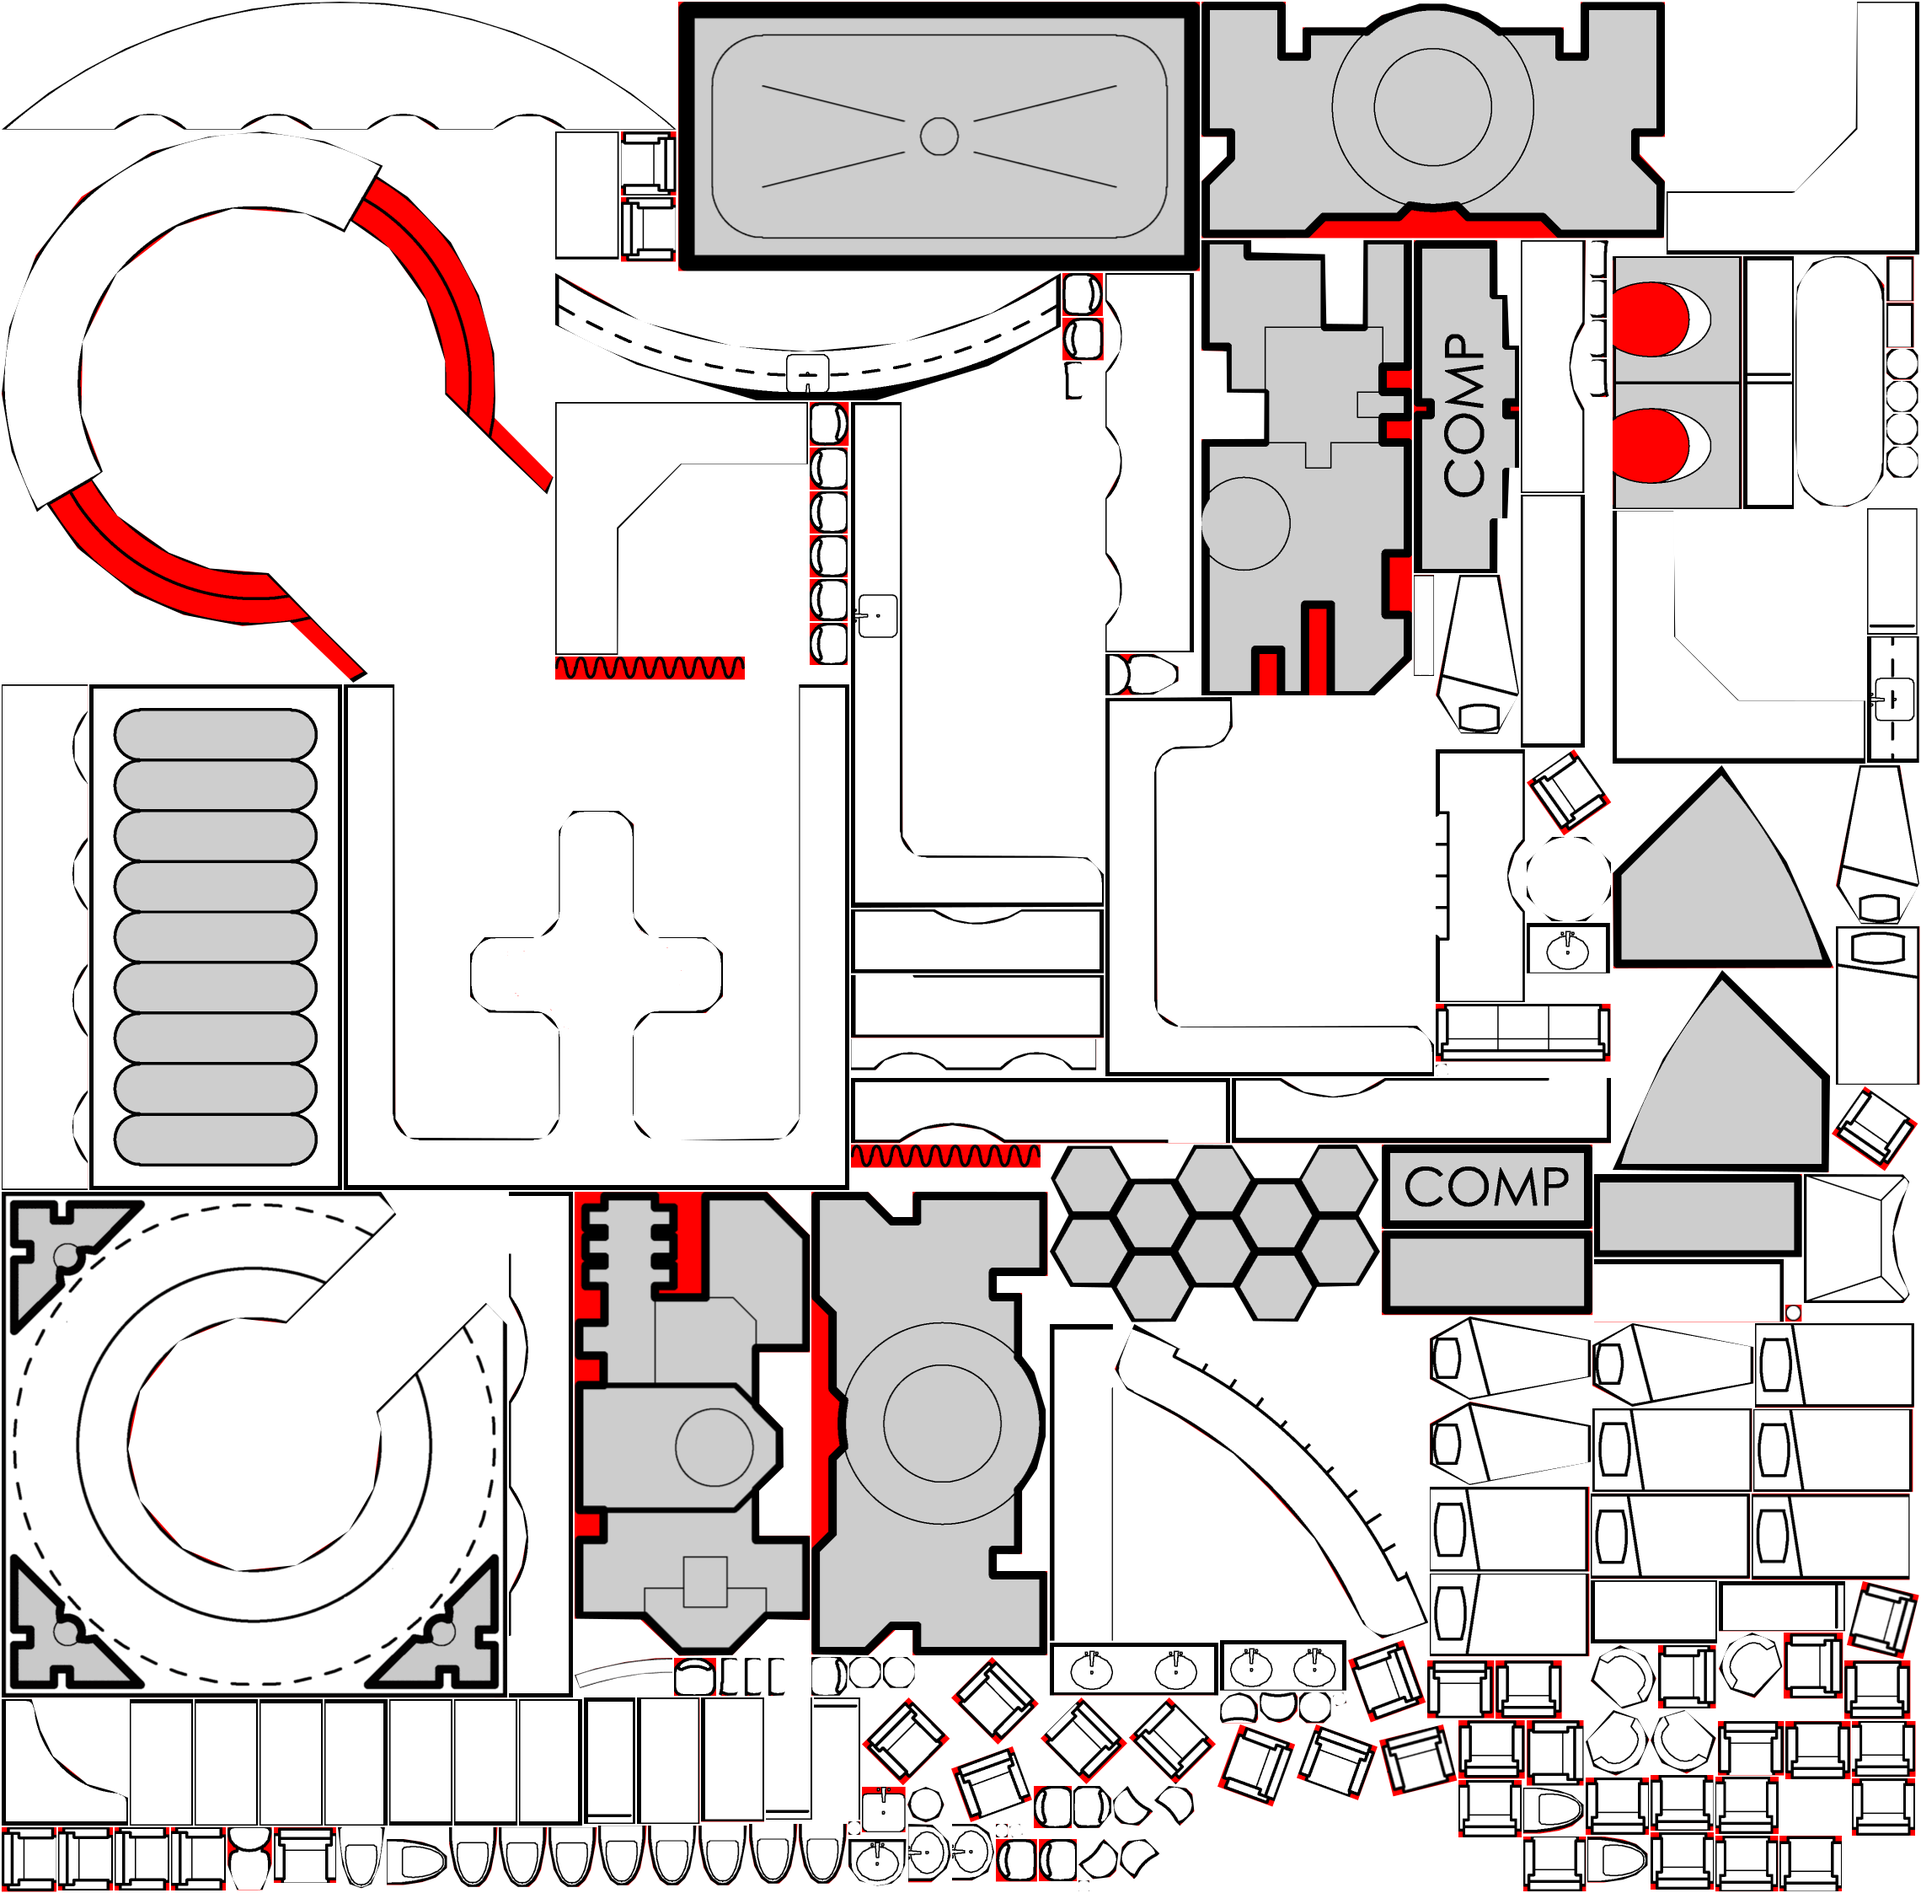
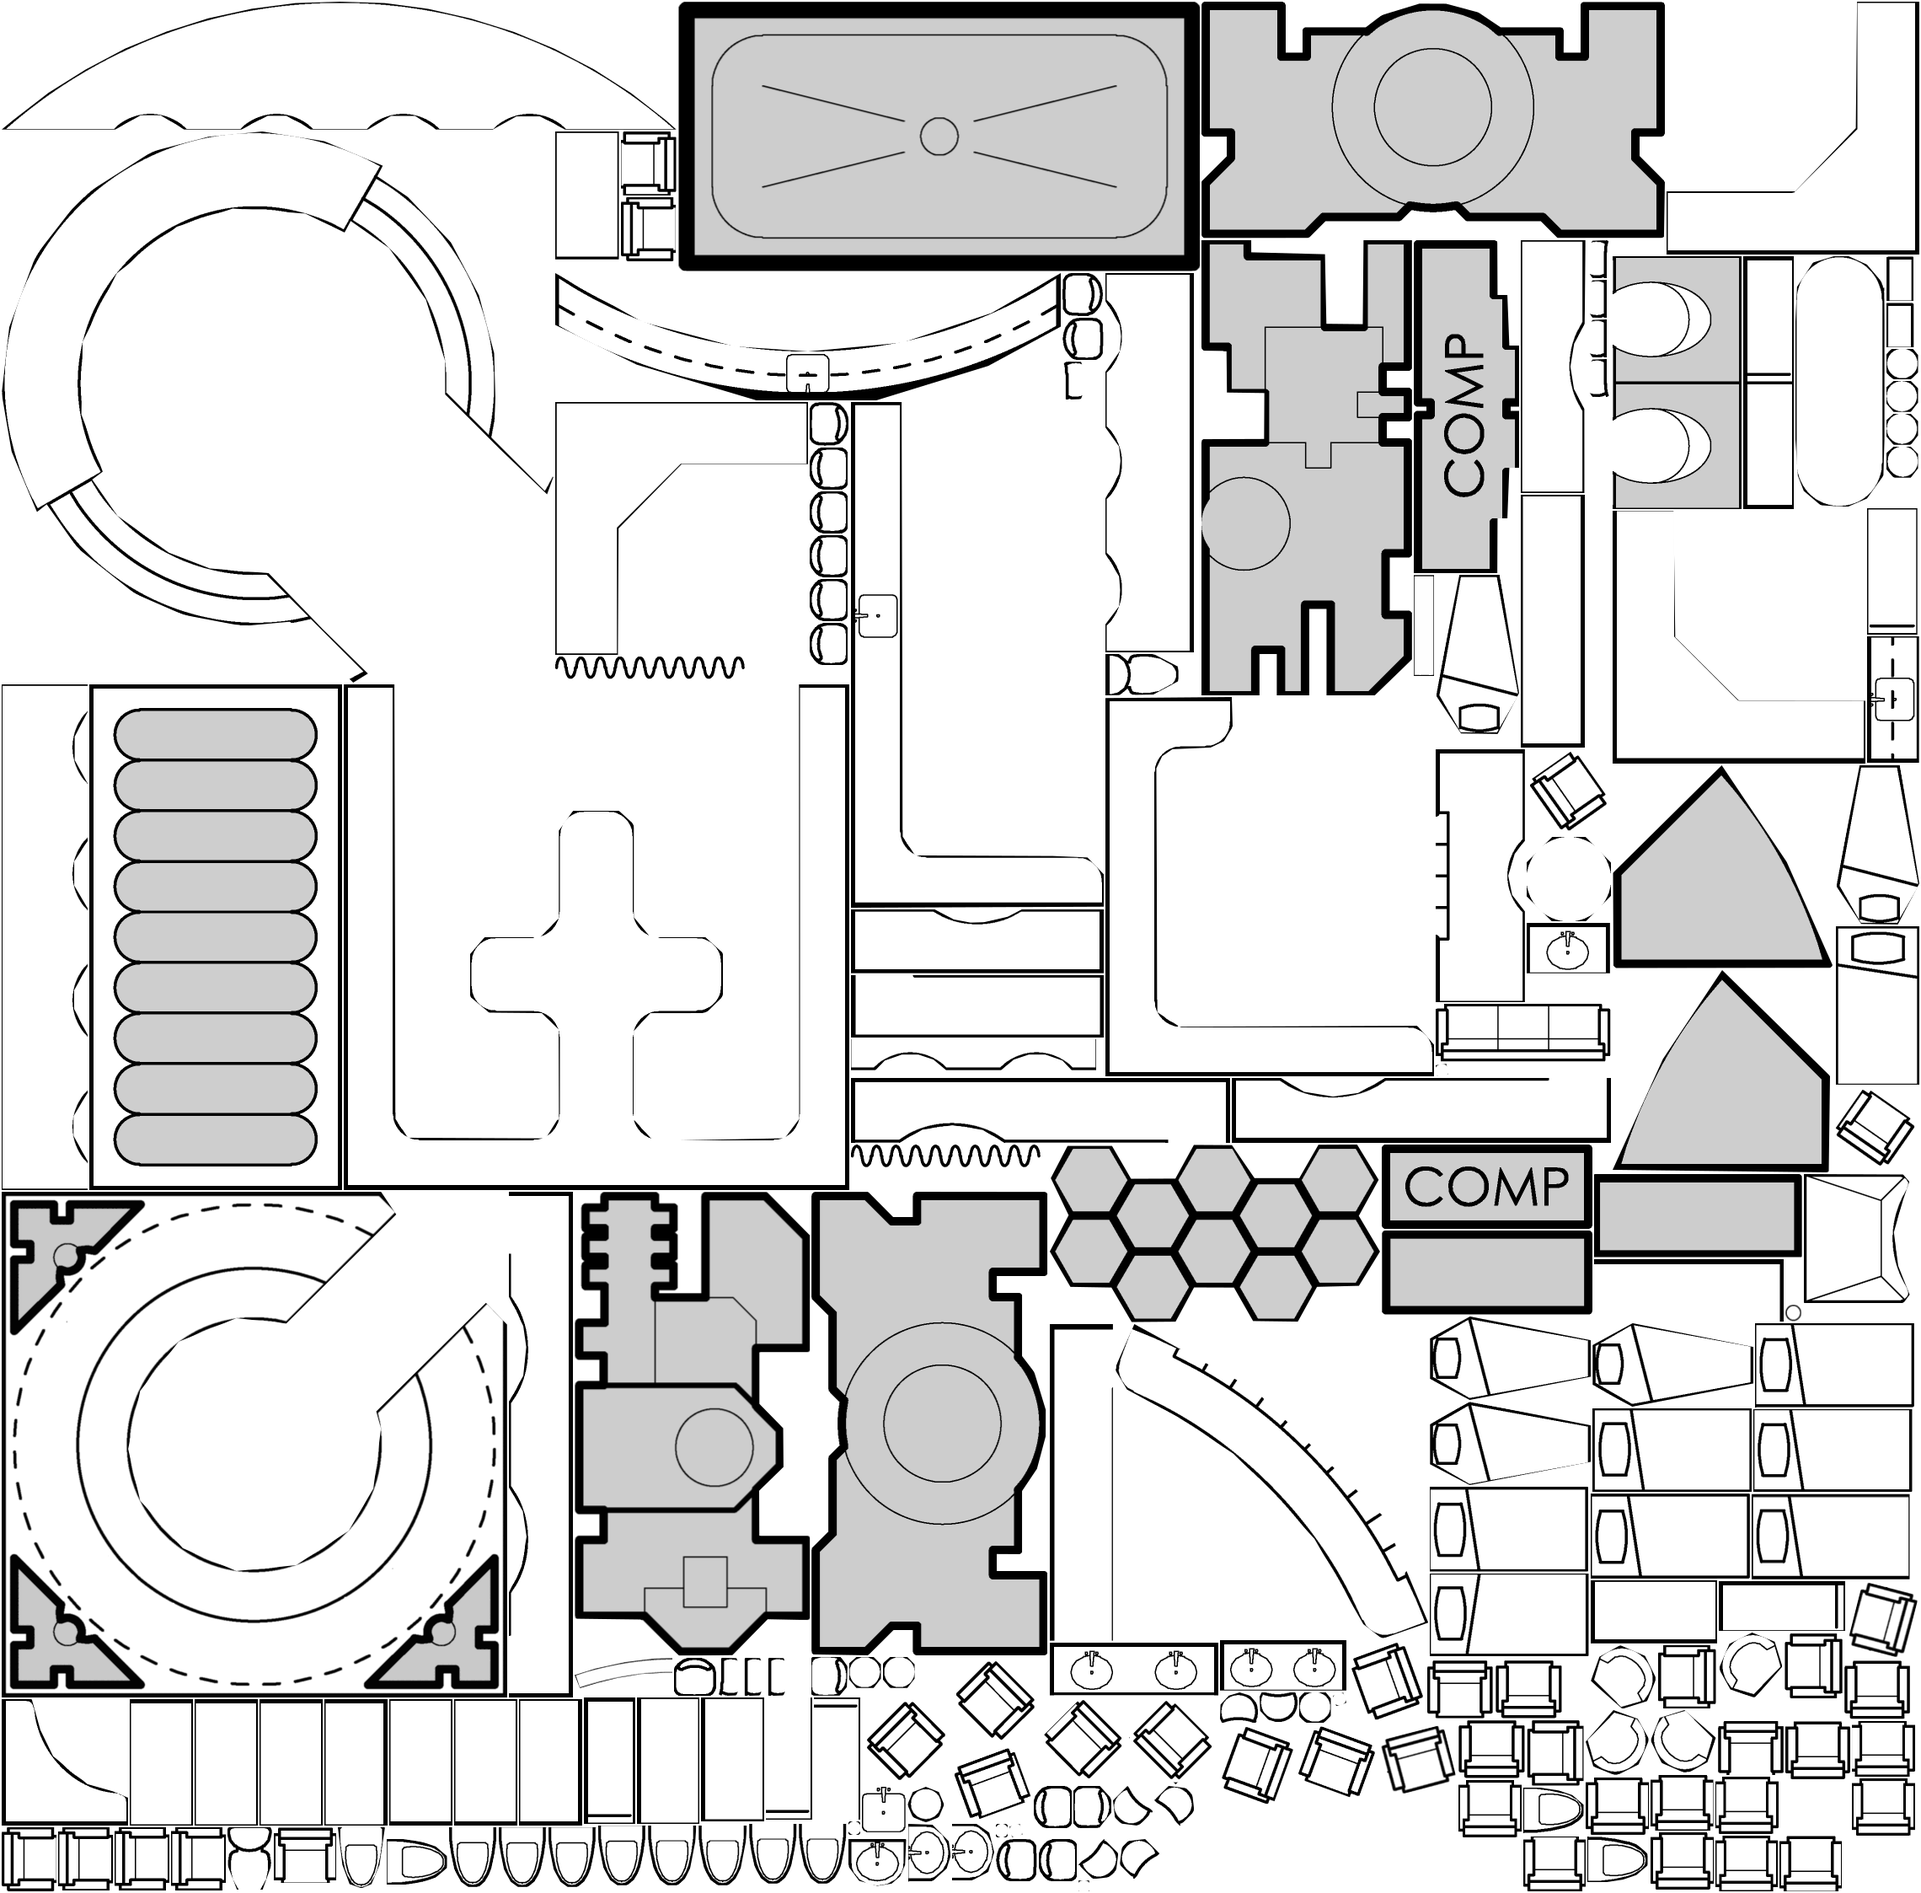
feat: clarify + white bg

diff --git a/src/scripts/images.js b/src/scripts/images.js
@@ -198,7 +198,13 @@ async function drawObstacleSpritesheets(assets, pngToProm) {
       const srcRect = srcPoly.rect;
       const srcPngRect = srcPoly.rect.delta(-symbol.pngRect.x, -symbol.pngRect.y).scale(1 / (worldScale * (symbol.isHull ? 1 : 0.2)));
       const dstPngPoly = srcPoly.clone().translate(-srcRect.x, -srcRect.y).scale(scale).translate(x, y);
-      drawPolygons(ct, dstPngPoly, ['red', null]);
+      /**
+       * 🔔 draws white under obstacle even when original transparent,
+       * e.g. misc-stellar-cartography--020--10x10
+       * 
+       * Alternatively we need to aggregate and cut-out.
+       */
+      drawPolygons(ct, dstPngPoly, ['white', null]);
       ct.globalCompositeOperation = 'source-atop';
       ct.drawImage(image, srcPngRect.x, srcPngRect.y, srcPngRect.width, srcPngRect.height, x, y, width, height);
       ct.globalCompositeOperation = 'source-over';
